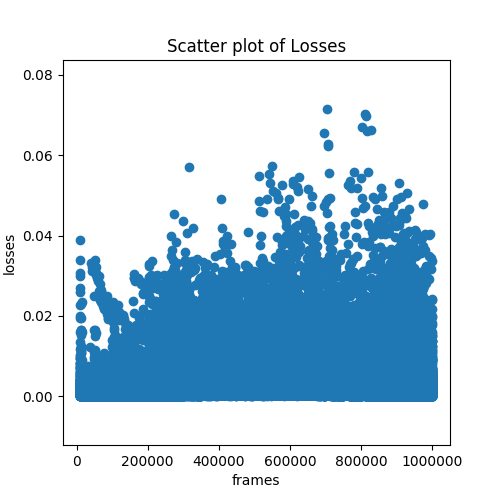
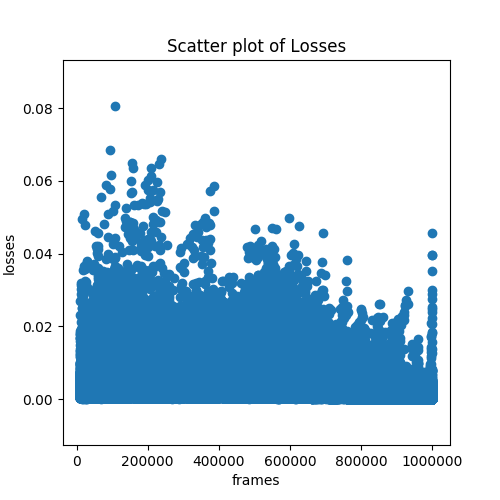
imgs

diff --git a/P3/Starter Code/run_dqn_pong.py b/P3/Starter Code/run_dqn_pong.py
@@ -103,6 +103,7 @@ plt.ylabel('rewards')
 plt.scatter(x_rewards, y_rewards)
 fig.savefig("rewards.png")
 
+x_loss = np.flip(x_loss) # to be removed
 fig = plt.figure(figsize = (5, 5))
 plt.title('Scatter plot of Losses')
 plt.xlabel('frames')
